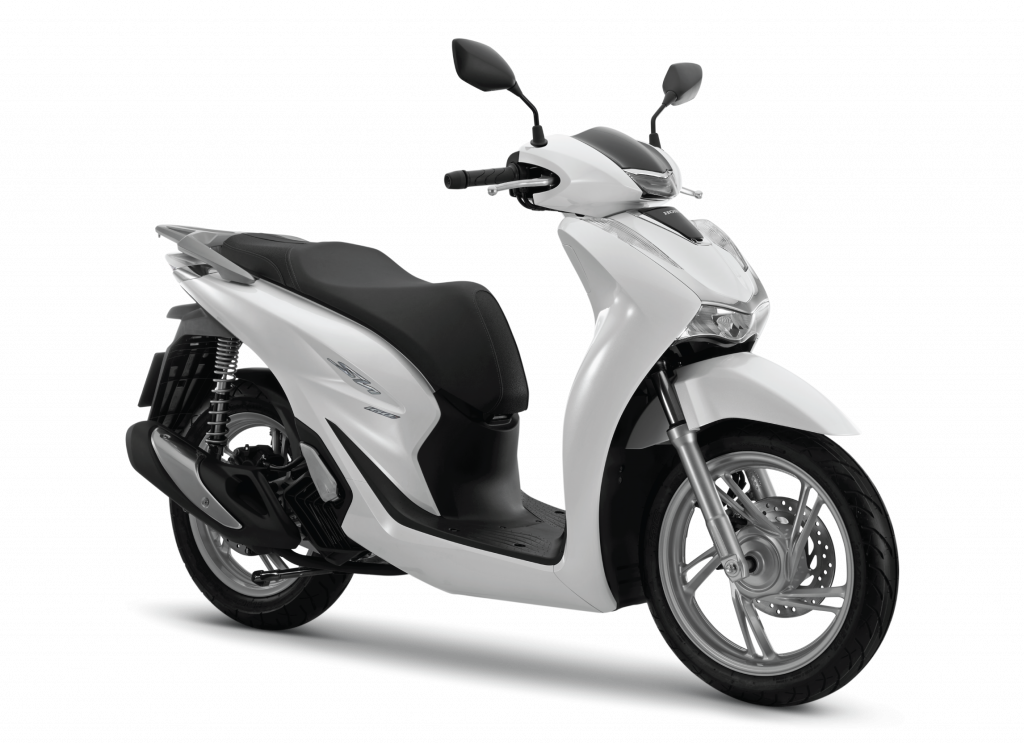
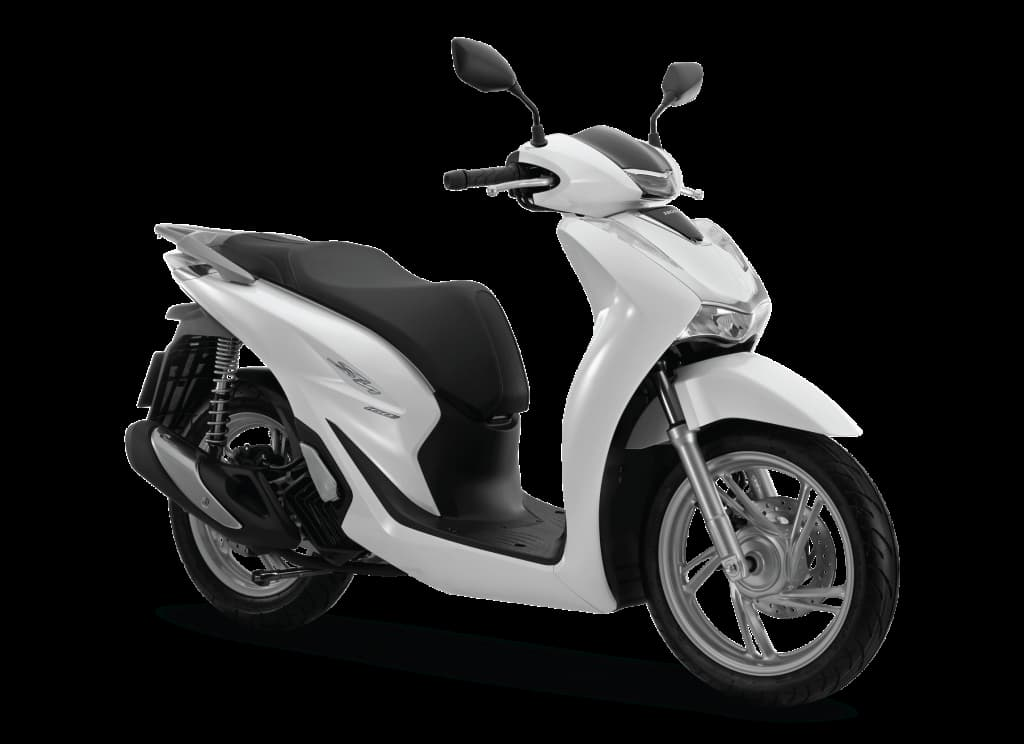
fix: update fleet card images and CSS styling
- Replace black background images with optimized versions
- Update adv-motor, ktm-duke390, xe-sh to .jpg
- Fix fleet-card media styling with gradient background
- Change active tab color from black to green
- Remove animate-on-scroll from fleet section for mobile

diff --git a/src/data/fleet.js b/src/data/fleet.js
@@ -12,7 +12,7 @@ export const fleet = [
       danang: { daily: 500, weekly: 2500, monthly: 7500 },
       dalat: { daily: 500, weekly: 2500, monthly: 7500 },
     },
-    image: '/images/motors/adv-motor.png',
+    image: '/images/motors/adv-motor.jpg',
     altVi: 'Honda ADV cho thuê',
     altEn: 'Honda ADV for rent',
     available: ['nhatrang', 'danang', 'dalat'],
@@ -87,7 +87,7 @@ export const fleet = [
       danang: { daily: null, weekly: null, monthly: null },
       dalat: { daily: null, weekly: null, monthly: null },
     },
-    image: '/images/motors/benelli 302.webp',
+    image: '/images/motors/benelli-302.webp',
     altVi: 'Benelli 302 cho thuê',
     altEn: 'Benelli 302 for rent',
     available: ['nhatrang'],
@@ -147,7 +147,7 @@ export const fleet = [
       danang: { daily: 650, weekly: 3500, monthly: 9750 },
       dalat: { daily: 700, weekly: 3900, monthly: 10500 },
     },
-    image: '/images/motors/ktm-duke390-hero.jpg',
+    image: '/images/motors/pr-ktm-duke390.webp',
     altVi: 'KTM Duke 390 cho thuê',
     altEn: 'KTM Duke 390 for rent',
     available: ['nhatrang', 'danang', 'dalat'],
@@ -346,7 +346,7 @@ export const fleet = [
       danang: { daily: 300, weekly: 1800, monthly: 6000 },
       dalat: { daily: 300, weekly: 1800, monthly: 6000 },
     },
-    image: '/images/motors/xe-sh.png',
+    image: '/images/motors/xe-sh.jpg',
     altVi: 'Honda SH cho thuê',
     altEn: 'Honda SH for rent',
     available: ['danang', 'dalat'],

diff --git a/src/css/style.css b/src/css/style.css
@@ -2134,7 +2134,7 @@ a.contact-item span strong {
 }
 
 .fleet-tab.is-active {
-  background: #1a1a1a;
+  background: var(--green-500);
   color: #fff;
 }
 
@@ -2167,18 +2167,20 @@ a.contact-item span strong {
   position: relative;
   min-height: 200px;
   padding: 28px 20px;
-  background: #fff;
+  background: linear-gradient(180deg, #f8fafc 0%, #f1f5f9 100%);
   display: flex;
   align-items: center;
   justify-content: center;
+  overflow: hidden;
 }
 
 .fleet-card__media img {
   max-height: 180px;
-  width: auto;
+  width: 100%;
   max-width: 100%;
   object-fit: contain;
   transition: transform 0.35s ease;
+  background: #f1f5f9;
 }
 
 .fleet-card:hover .fleet-card__media img {

diff --git a/build.js b/build.js
@@ -1223,7 +1223,7 @@ function generatePage(city, lang) {
           </ul>
         </div>
 
-        <div class="fleet-catalog animate-on-scroll" data-fleet-catalog>
+        <div class="fleet-catalog" data-fleet-catalog>
           <p class="fleet-catalog__hint">${fleetGrid.hint}</p>
           <div class="fleet-tabs" role="tablist" aria-label="${lang === 'vi' ? 'Lọc xe theo loại' : 'Filter bikes by type'}">
             <button type="button" class="fleet-tab is-active" role="tab" id="fleet-tab-all" aria-selected="true" aria-controls="fleet-grid-main" data-fleet-filter="all">${fleetGrid.tabs.all}</button>
